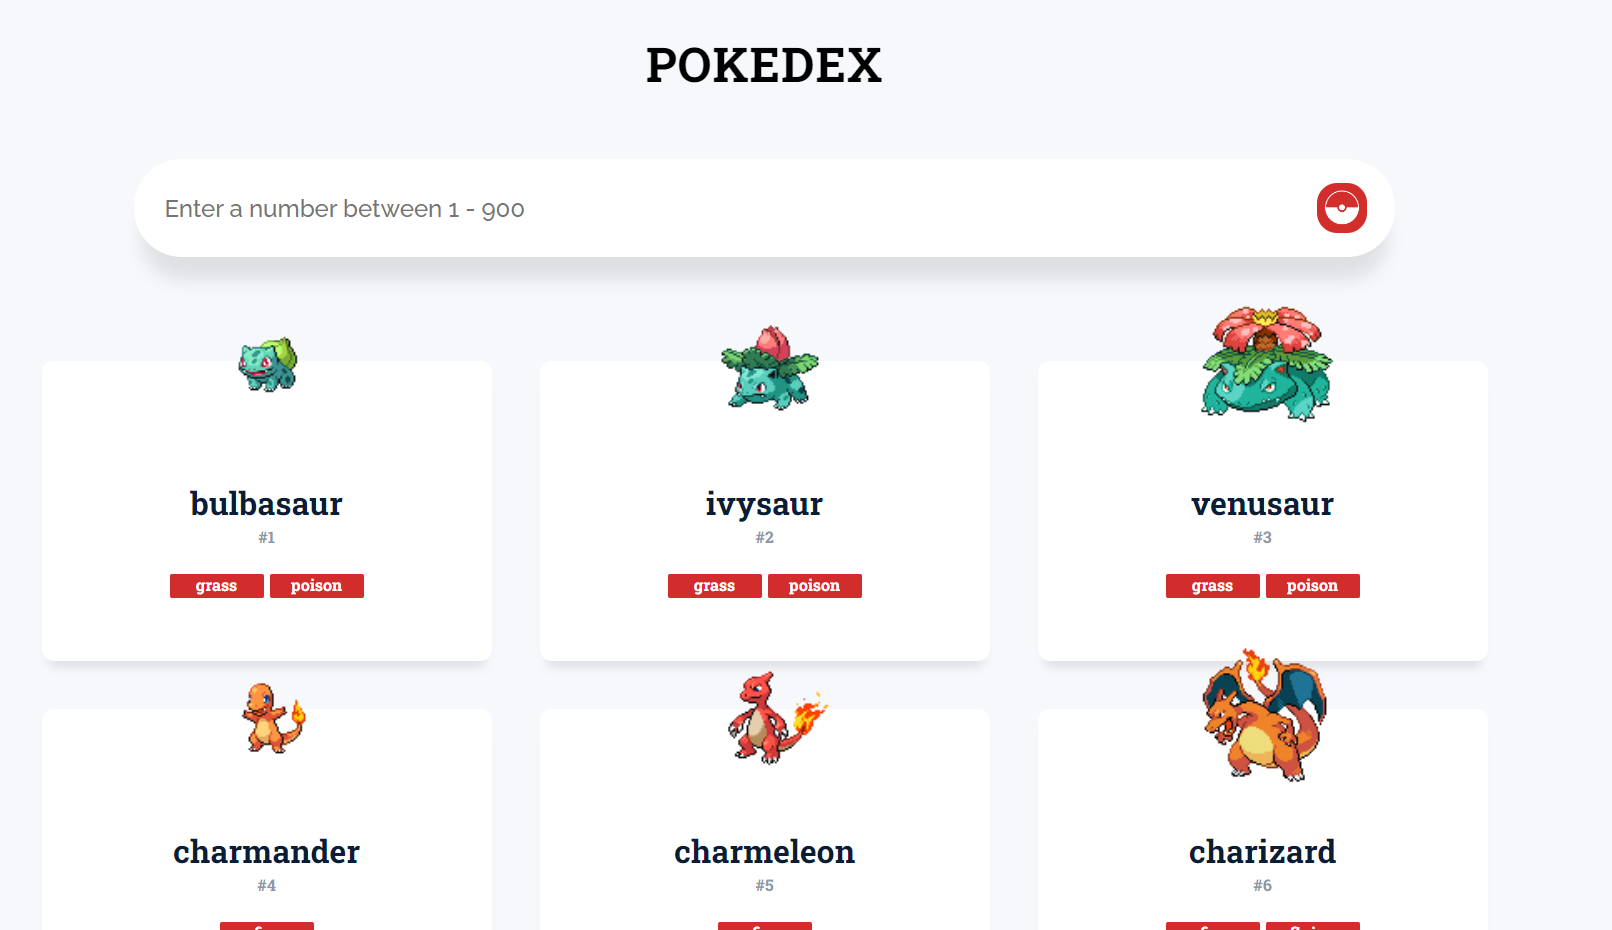
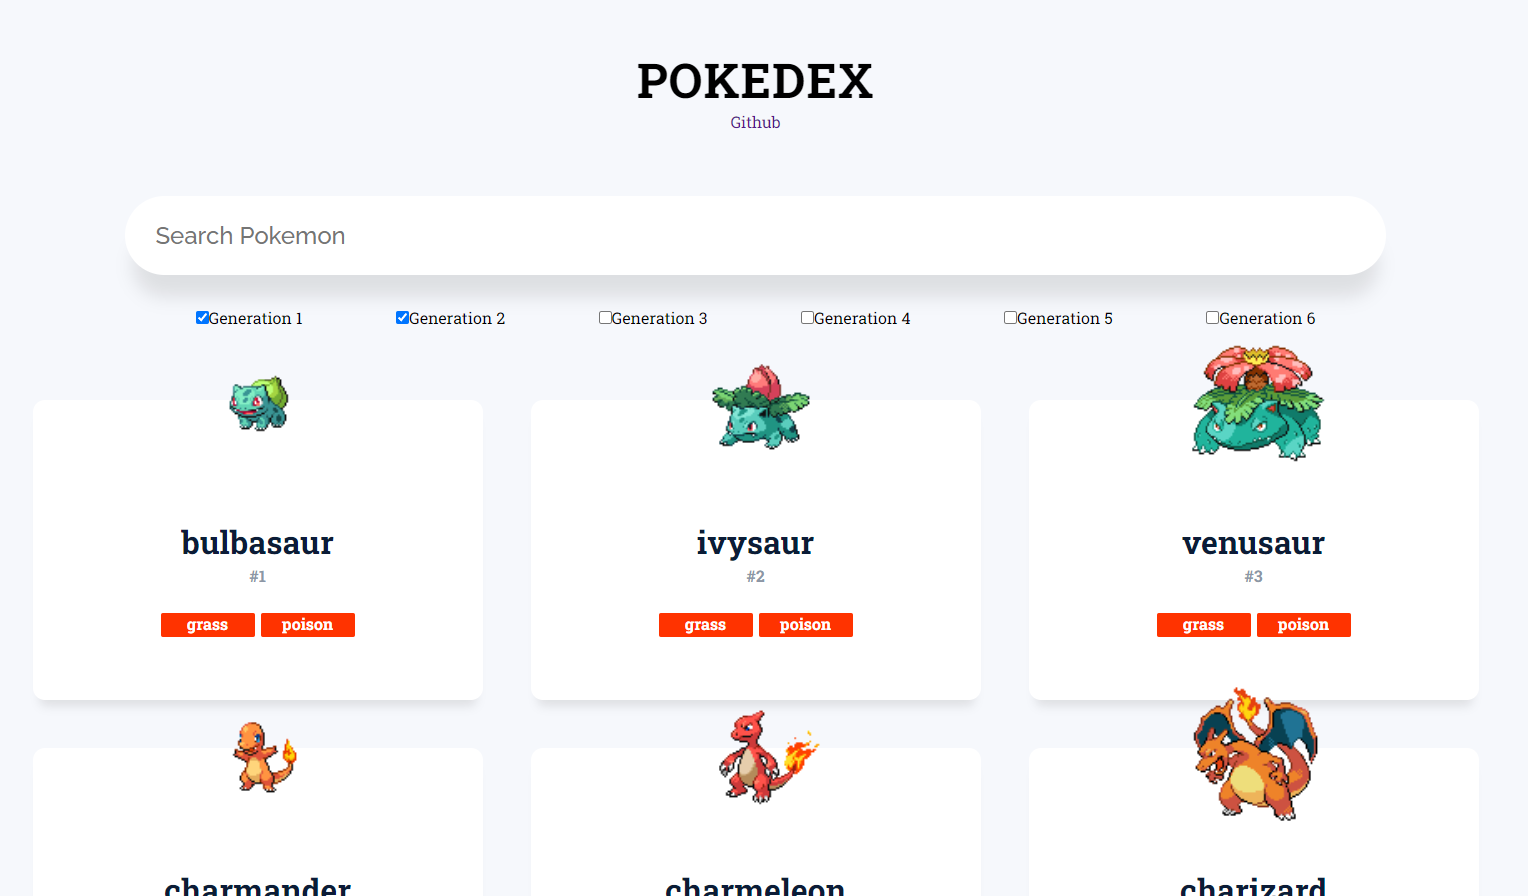
updated readme

diff --git a/README.md b/README.md
@@ -4,12 +4,9 @@
 
 Website Link: https://bryannguyen03.github.io/Pokedex/
 
-Using an API called pokeAPI and ReactJS, this website displays every pokemon ranging from the first pokemon to the 900th pokemon.
+Using an API called pokeAPI and ReactJS, this website displays Pokemon ranging from the 1st generation all the way to the 6th generation.
 
-Users can specify the number of pokemon displayed by entering the value in the textbox
+- Users can select which generation of Pokemon they wanted listed by selecting checkboxes.
+- Users can search for a specific Pokemon using the search bar
 
 !['website Preview'](readme-images/WebsitePreview.png)
-
-If the user enters a value between 1 - 900, that amount of Pokemon will be displayed. Note that entering a negative number will return a message stating it must be a value greater than 0
-
-!['website Preview 2'](readme-images/900%20Pokemon.png)
